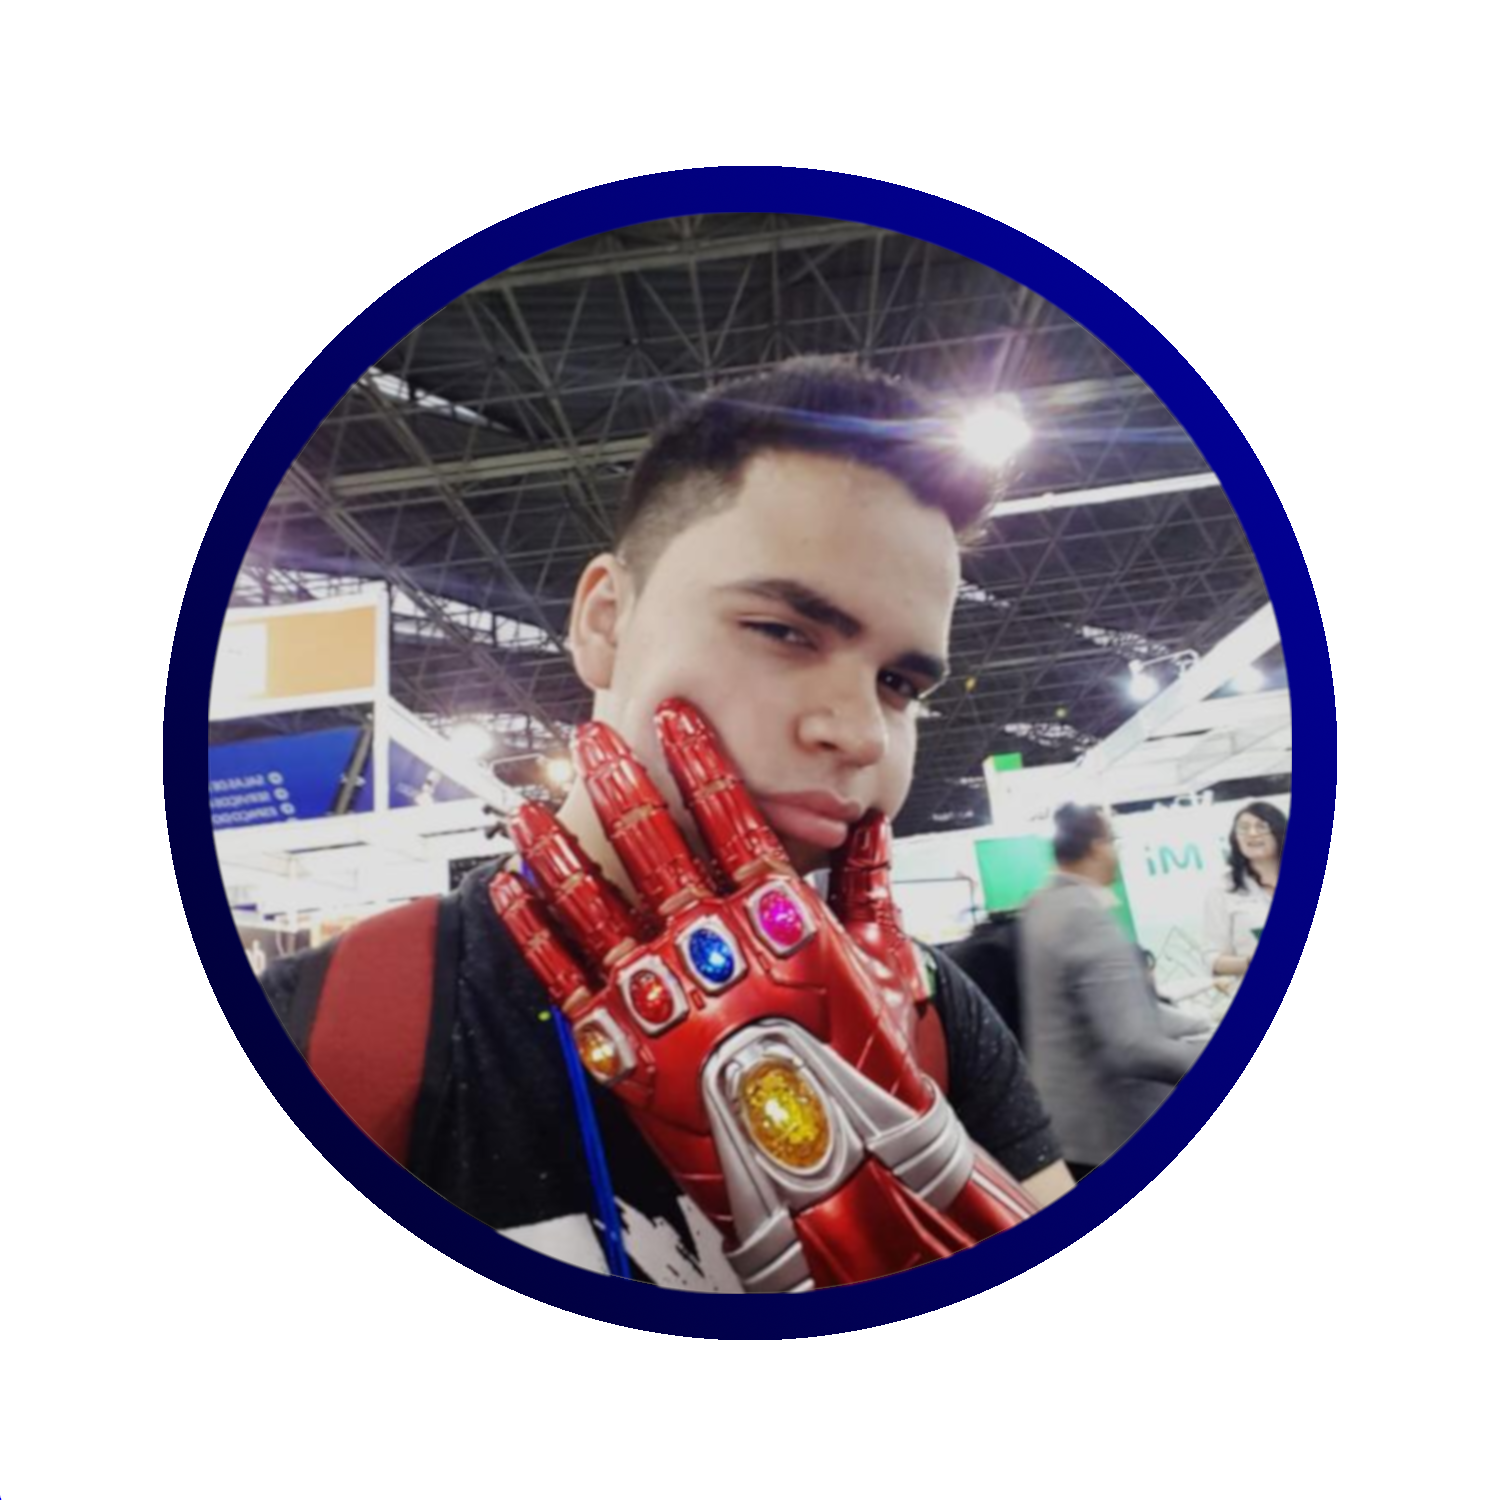
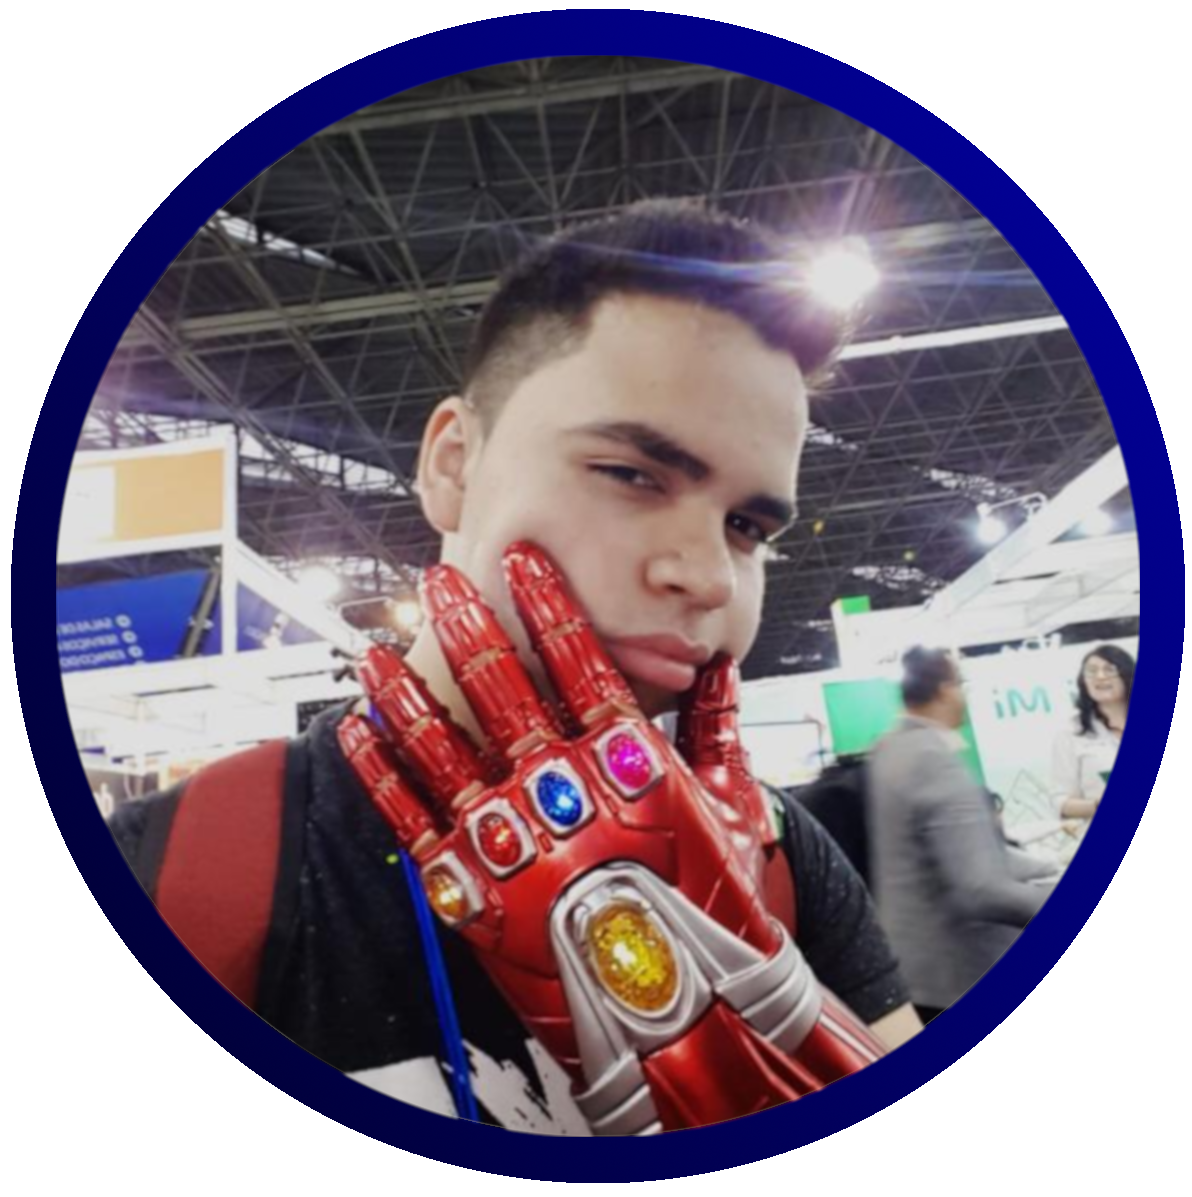
Configuração do Img

diff --git a/index.html b/index.html
@@ -11,7 +11,7 @@
     <h1>Olá Mundo</h1>
 
     <h2>Thiago do Nascimento Alves</h2>
-    <img width="300px" src="_img/Thiago.png" 
+    <img width="300px" src="_img/IconThiago.png" 
     alt="Um Homem com a mão no queixo" title="Um homem com a mão no queixo">
     <p>Brasileiro <br>
        Diadema - SP <br>
